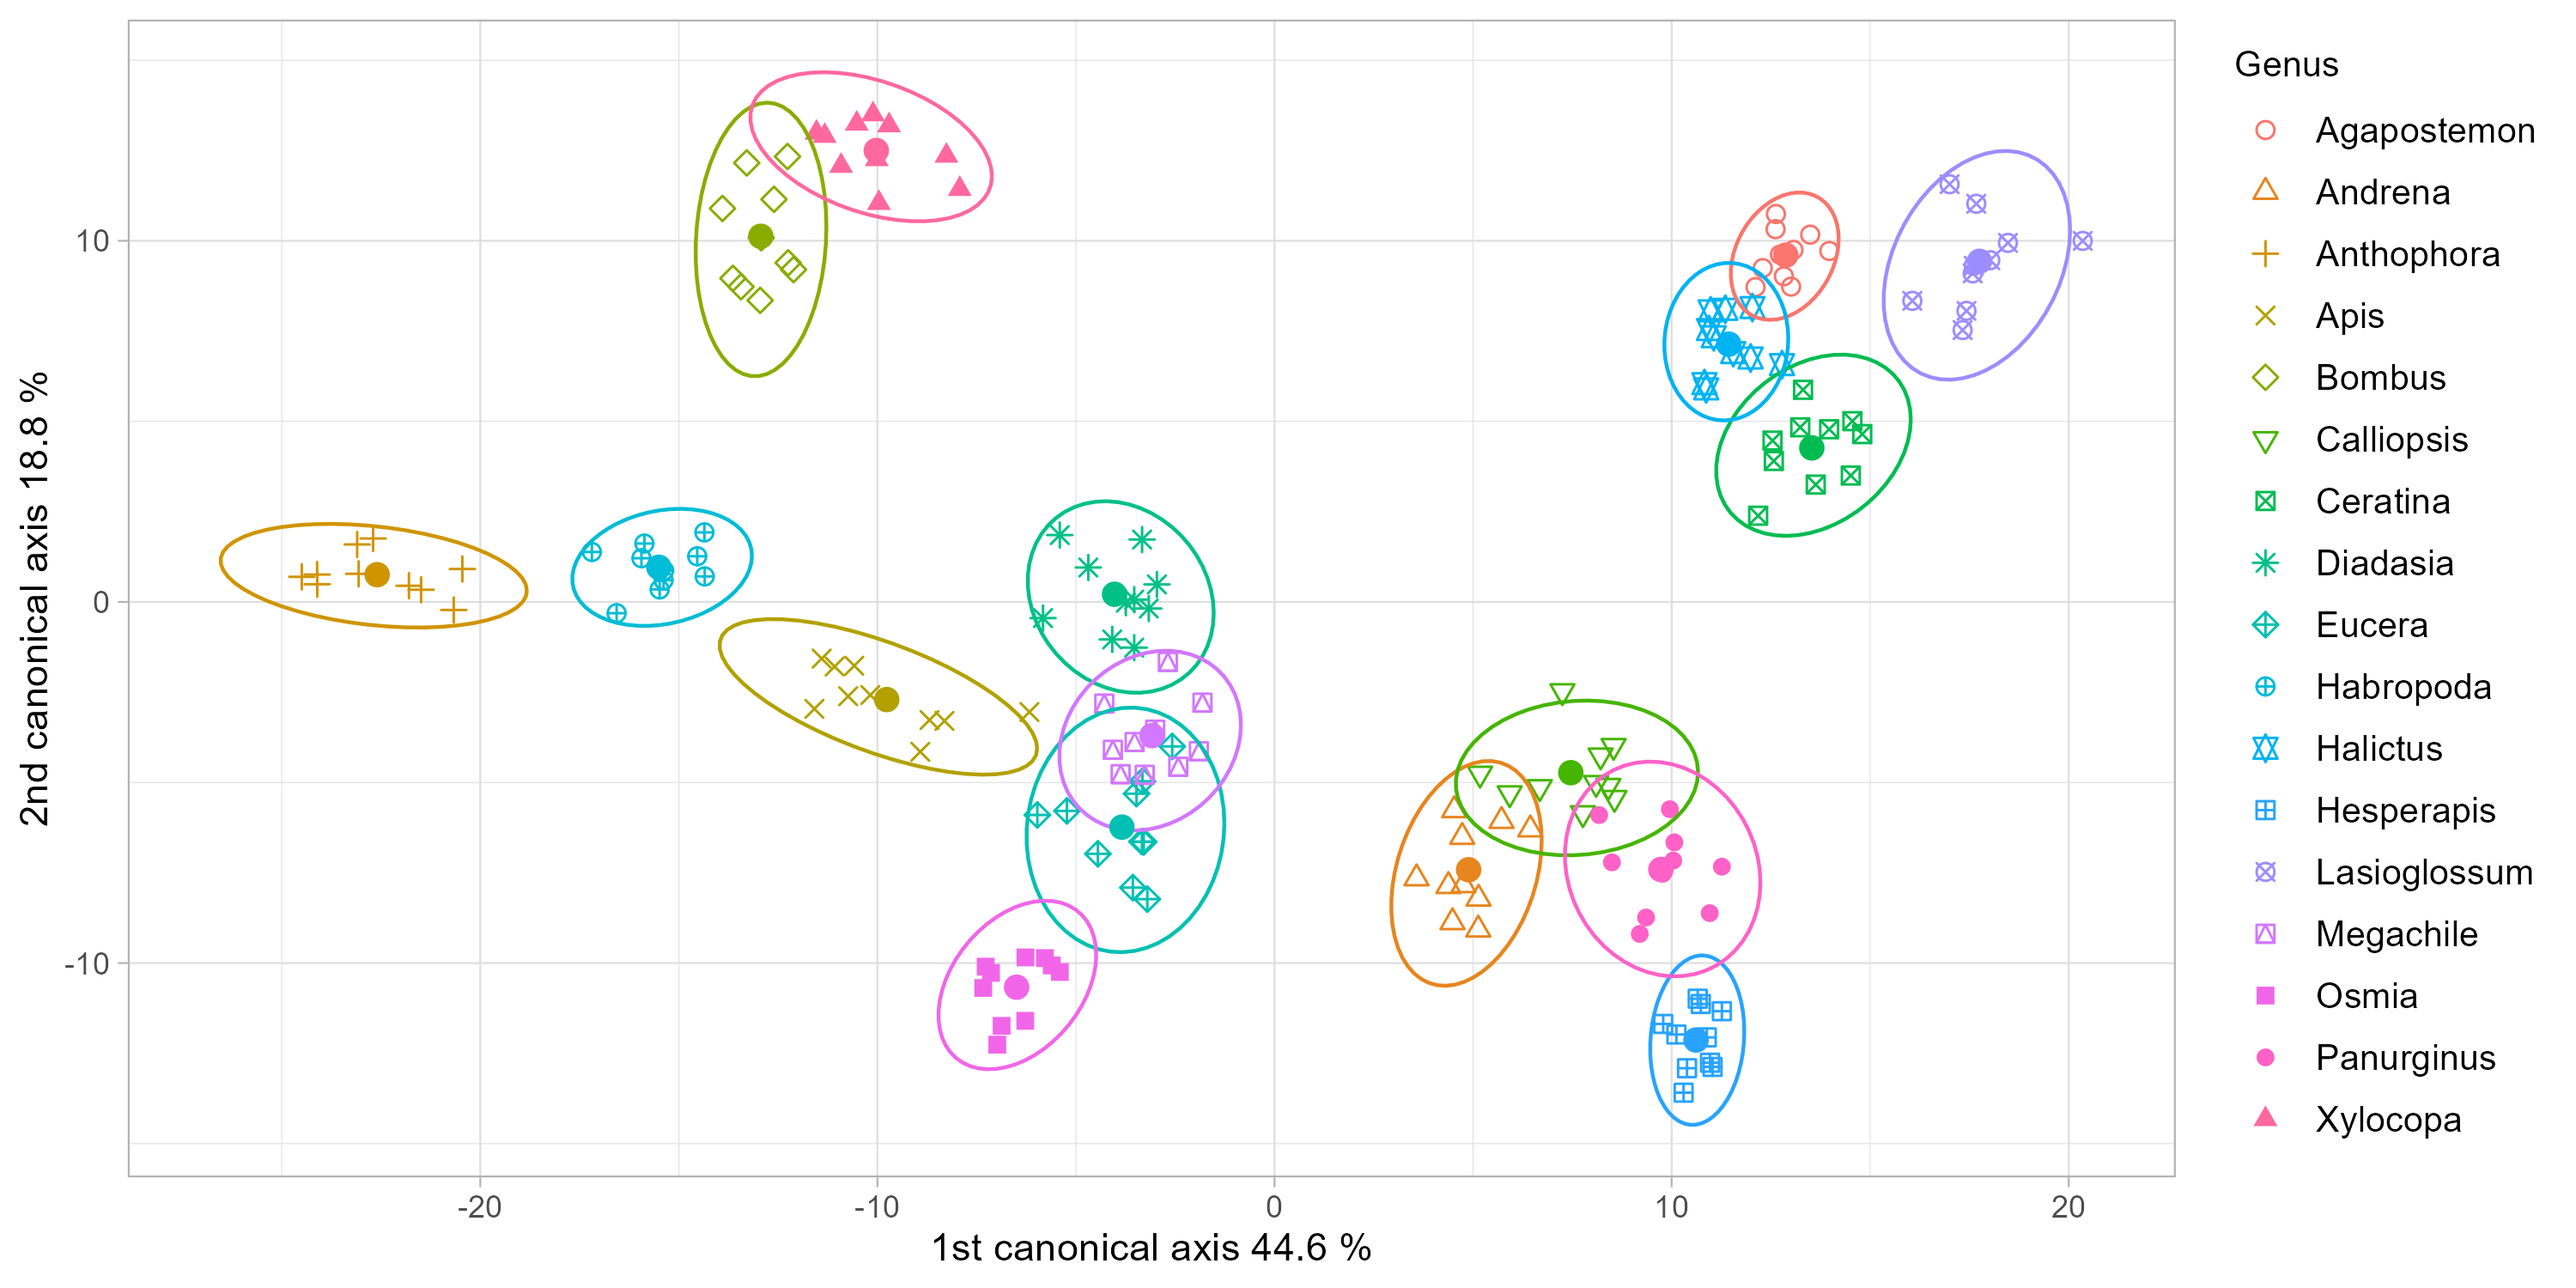
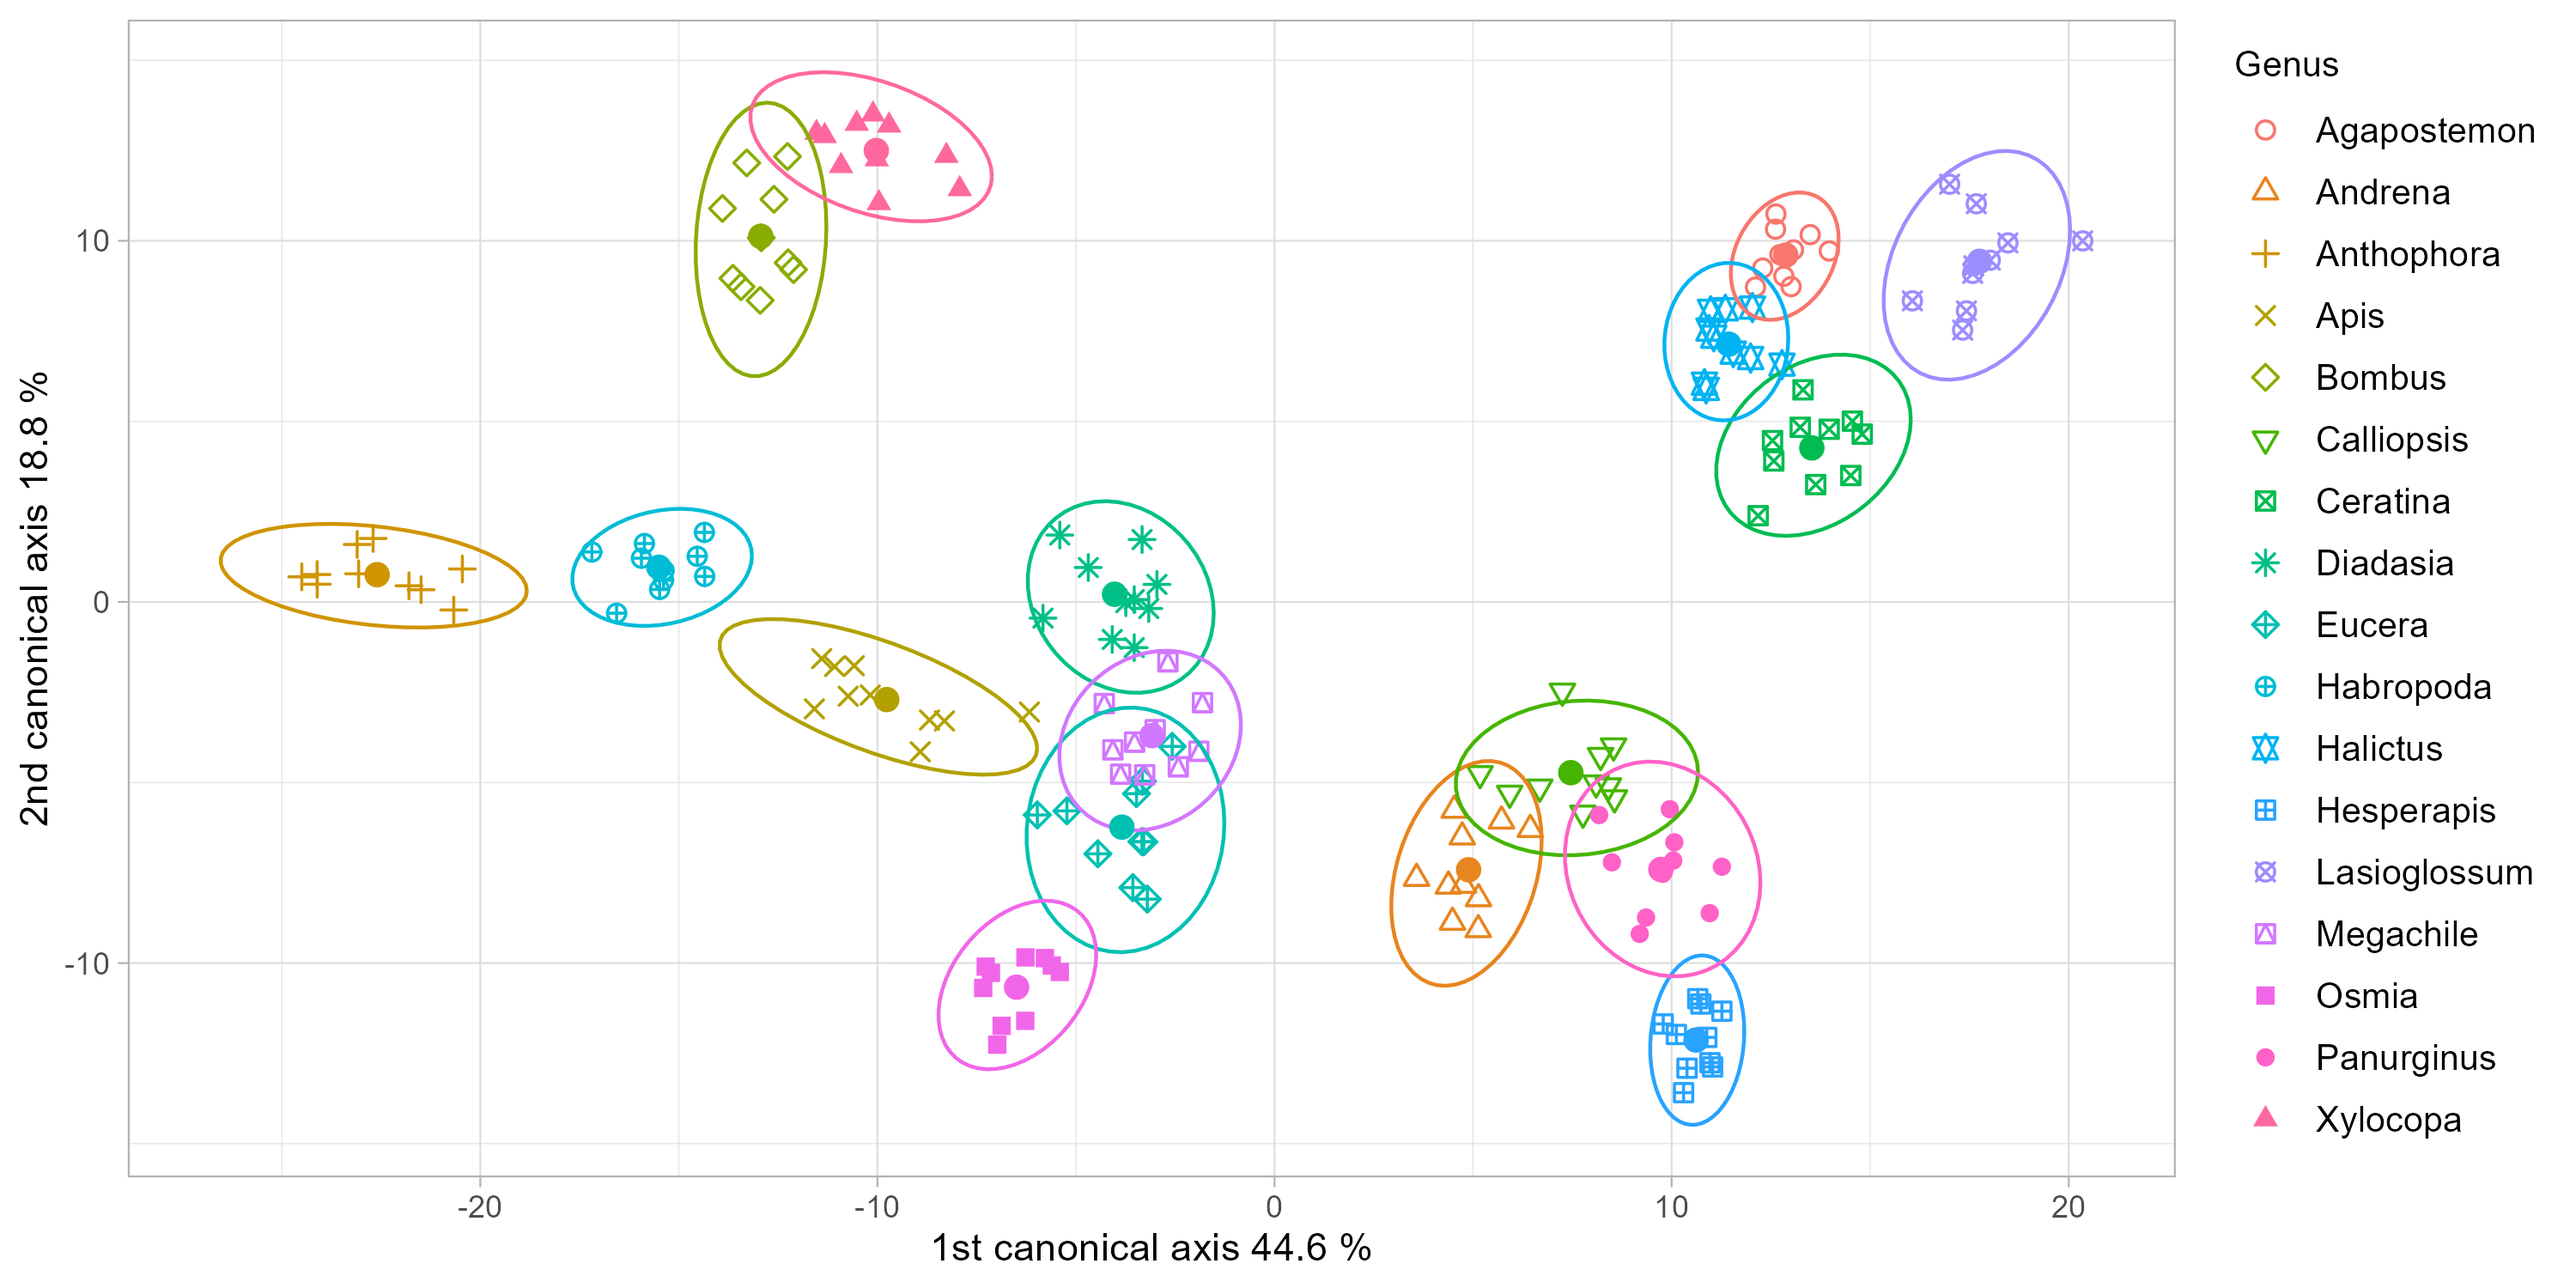
Update

diff --git a/README.md b/README.md
@@ -31,6 +31,7 @@ In [R/data](https://github.com/JorgeDeLaCruz93/Wing-Geometric-Morphometrics/tree
 |bee_tree.nex | Nexus format pruned reference phylogeny |
 |nj_tree.nwk | Newick format Neighbor-Joining (NJ) tree reconstruction from Mahalanobis Distance |
 |upgma_tree.nwk | Newick format UPGMA tree reconstruction from Mahalanobis Distance |
+|taxa.csv| Taxonomy Table |
 
 ## Data Processing & Analysis
 In [R/data](https://github.com/JorgeDeLaCruz93/Wing-Geometric-Morphometrics/tree/master/R/data) 
@@ -47,8 +48,8 @@ _**R Objects**_	are italized and bolded
 |subset_LM.csv | Canonical Variate Analysis (CVA) | _**cva.1**_ |
 |BEE_mat7gen_p8pmAa_fst.nwk | Prune phylogenetic tree | bee_tree.nex |
 |bee_tree.nwk | Calculate phylogenetic distances | phylo_distances.csv |
-|_cva.1$groupmeans_ | Calculate phylogenetic signal (Pagel’s λ) | **lambda_result** |
-|_cva.1$groupmeans_ | Calculate phylogenetic signal (Blomberg's K)  | **K_result**  |
+|_cva.1$groupmeans_ | Calculate phylogenetic signal (Blomberg's K)  | **physig_LMs_K**  |
+|_cva.1$groupmeans_ | Calculate phylogenetic signal effect size (Z) | **physig_LMs** |
 |_cva.1[["Dist"]][["GroupdistMaha"]]_ | Neighbor-joining (NJ) Tree Reconstruction | nj_tree.nwk |
 |_cva.1[["Dist"]][["GroupdistMaha"]]_ | UPGMA (Unweighted Pair Group Method with Arithmetic mean) Tree Reconstruction | upgma_tree.nwk  |
 | bee_tree.nwk / nj_tree.nwk / upgma_tree.nwk  | Quartet Tree Similarity | _RefvsNJ_ / _RefvsUPGMA_ / _NJvsUPGMA_ |
